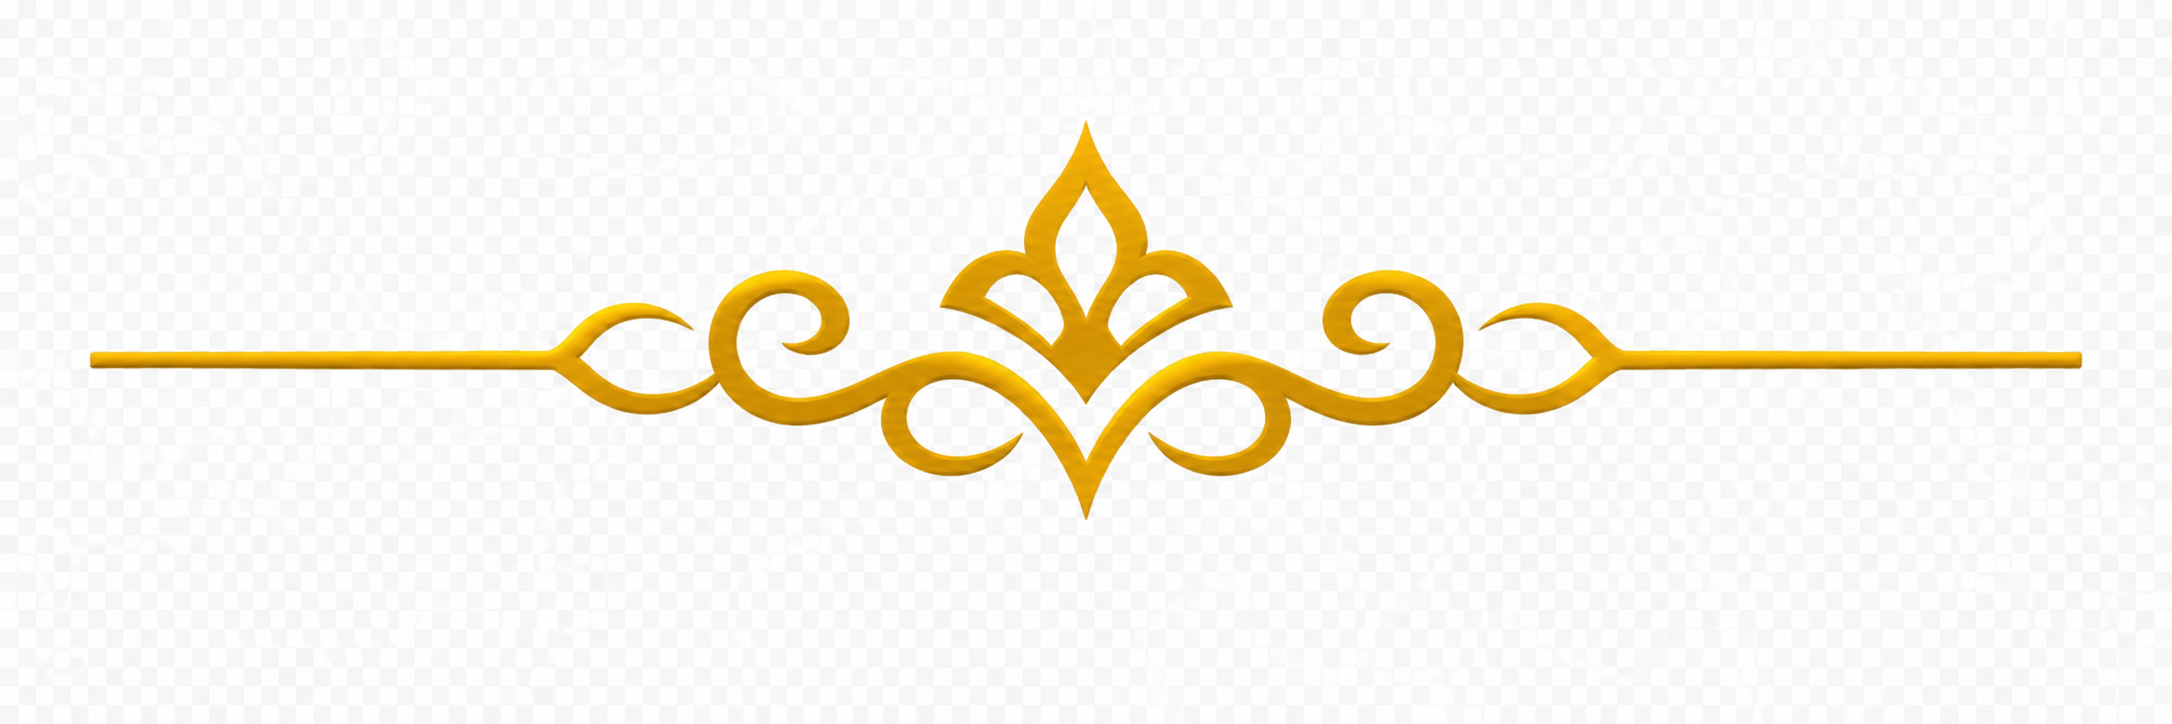
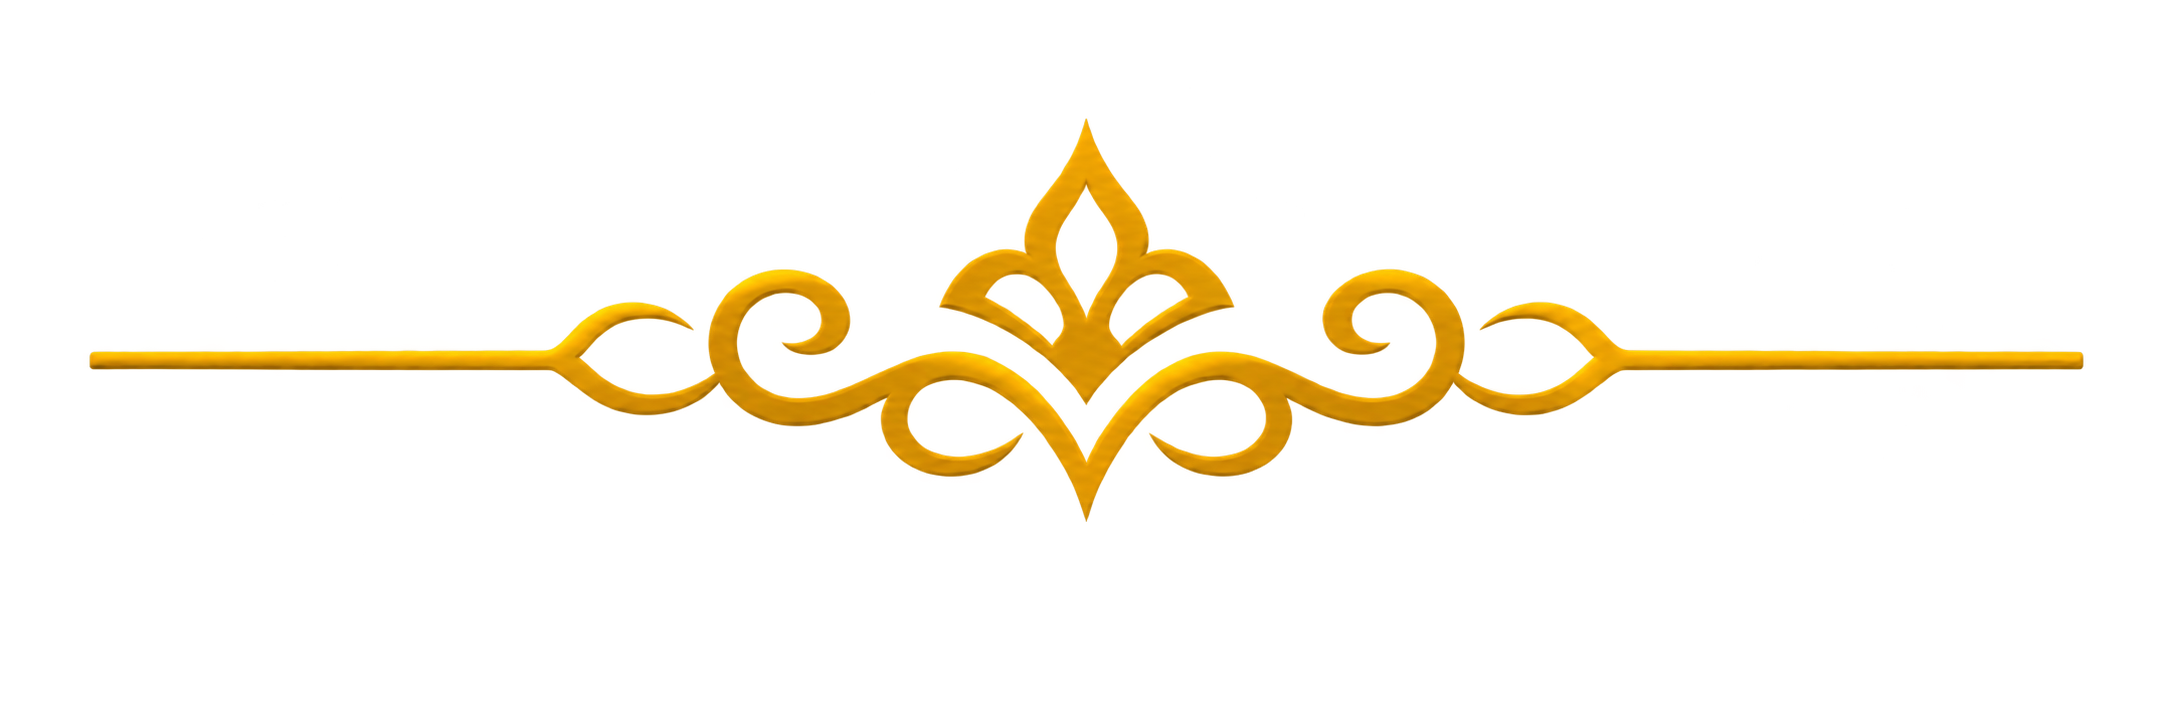
Prepare replacement auth ornaments with a transparent center background

diff --git a/src/auth-components.tsx b/src/auth-components.tsx
@@ -1,14 +1,14 @@
 import { useState, type InputHTMLAttributes, type ReactNode } from 'react';
 import { ArrowRight, LoaderCircle } from 'lucide-react';
 
-// Use the supplied transparent PNG unchanged, with its intrinsic proportions.
+// Local PNG artwork, displayed with its intrinsic proportions.
 export function AuthOrnament({ className = '' }: { className?: string }) {
   return (
     <img
       className={`auth-ornament ${className}`}
       src="/ornaments/EsseKZ_center_ornament.png"
-      width={304}
-      height={71}
+      width={2172}
+      height={724}
       alt=""
       aria-hidden="true"
       draggable={false}
@@ -55,8 +55,8 @@ export function AuthLayout({ children }: { children: ReactNode }) {
           key={corner}
           className={`auth-corner auth-corner-${corner}`}
           src="/ornaments/EsseKZ_corner_ornament.png"
-          width={142}
-          height={124}
+          width={1254}
+          height={1254}
           alt=""
           aria-hidden="true"
           draggable={false}
